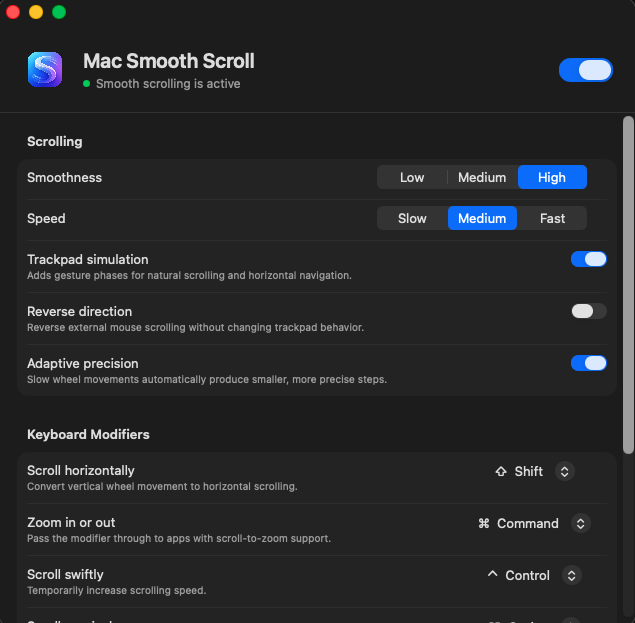
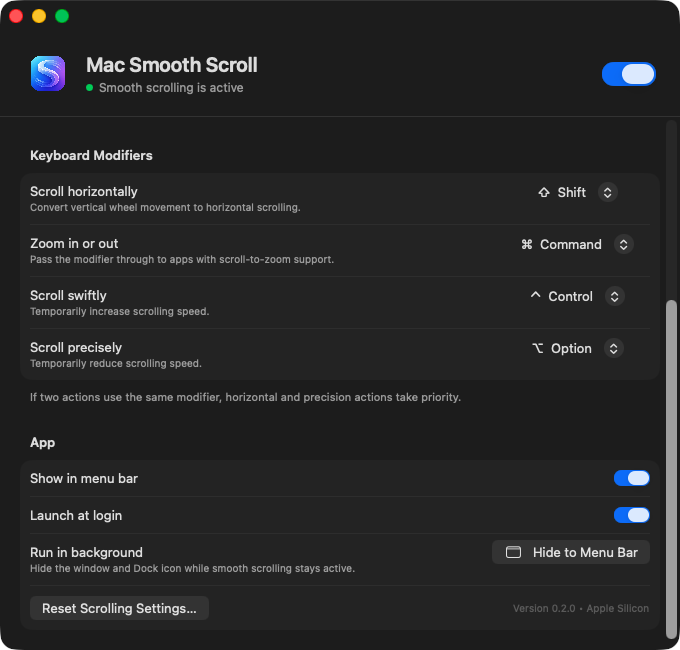
Add hide-to-menu-bar mode

diff --git a/Sources/MacSmoothScroll/MacSmoothScrollApp.swift b/Sources/MacSmoothScroll/MacSmoothScrollApp.swift
@@ -7,7 +7,7 @@ struct MacSmoothScrollApp: App {
     @NSApplicationDelegateAdaptor(AppDelegate.self) private var appDelegate
 
     var body: some Scene {
-        WindowGroup {
+        Window("Mac Smooth Scroll", id: "settings") {
             SettingsView()
                 .environmentObject(appDelegate.settings)
                 .frame(minWidth: 640, idealWidth: 680, minHeight: 600, idealHeight: 650)
@@ -21,29 +21,49 @@ struct MacSmoothScrollApp: App {
     }
 }
 
-final class AppDelegate: NSObject, NSApplicationDelegate {
+final class AppDelegate: NSObject, NSApplicationDelegate, NSWindowDelegate {
     let settings = ScrollSettings()
     private lazy var scrollEngine = SmoothScrollEngine(settings: settings)
     private var statusItem: NSStatusItem?
     private var permissionTimer: Timer?
+    private var isHiddenToMenuBar = false
+    private var isTerminating = false
+    private let launchedInBackground = ProcessInfo.processInfo.arguments.contains("--background")
+
+    func applicationWillFinishLaunching(_ notification: Notification) {
+        NSApp.setActivationPolicy(launchedInBackground ? .accessory : .regular)
+    }
 
     func applicationDidFinishLaunching(_ notification: Notification) {
-        NSApp.setActivationPolicy(.regular)
         settings.onChange = { [weak self] in
             self?.settingsDidChange()
         }
-        settings.onOpenSettings = {
-            AppDelegate.showSettingsWindow()
+        settings.onOpenSettings = { [weak self] in
+            self?.showSettings()
+        }
+        settings.onHideApp = { [weak self] in
+            self?.hideToMenuBar()
         }
 
         configureStatusItem()
         updateRuntimeState()
         scrollEngine.refresh()
+        settings.migrateLaunchAtLoginRegistration()
 
         permissionTimer = Timer.scheduledTimer(withTimeInterval: 1.5, repeats: true) { [weak self] _ in
             self?.updateRuntimeState()
         }
         RunLoop.main.add(permissionTimer!, forMode: .common)
+
+        DispatchQueue.main.async { [weak self] in
+            guard let self else { return }
+            self.attachWindowDelegates()
+            if self.launchedInBackground {
+                self.hideToMenuBar()
+            } else {
+                self.showSettings()
+            }
+        }
     }
 
     func applicationShouldTerminateAfterLastWindowClosed(_ sender: NSApplication) -> Bool {
@@ -51,8 +71,28 @@ final class AppDelegate: NSObject, NSApplicationDelegate {
     }
 
     func applicationWillTerminate(_ notification: Notification) {
+        isTerminating = true
         permissionTimer?.invalidate()
         scrollEngine.stop()
+    }
+
+    func applicationDidHide(_ notification: Notification) {
+        guard !isTerminating else { return }
+        hideToMenuBar()
+    }
+
+    func applicationShouldHandleReopen(
+        _ sender: NSApplication,
+        hasVisibleWindows flag: Bool
+    ) -> Bool {
+        showSettings()
+        return true
+    }
+
+    func windowShouldClose(_ sender: NSWindow) -> Bool {
+        guard !isTerminating else { return true }
+        hideToMenuBar()
+        return false
     }
 
     private func settingsDidChange() {
@@ -121,16 +161,45 @@ final class AppDelegate: NSObject, NSApplicationDelegate {
     }
 
     @objc private func openSettings() {
-        Self.showSettingsWindow()
+        showSettings()
     }
 
     @objc private func quitApp() {
         NSApp.terminate(nil)
     }
 
-    static func showSettingsWindow() {
+    private func attachWindowDelegates() {
+        for window in NSApp.windows where window.canBecomeKey {
+            window.delegate = self
+        }
+    }
+
+    private func hideToMenuBar() {
+        guard !isTerminating else { return }
+
+        if !settings.showInMenuBar {
+            settings.showInMenuBar = true
+        } else {
+            configureStatusItem()
+        }
+
+        guard !isHiddenToMenuBar else { return }
+        isHiddenToMenuBar = true
+        for window in NSApp.windows where window.canBecomeKey {
+            window.orderOut(nil)
+        }
+        NSApp.setActivationPolicy(.accessory)
+    }
+
+    private func showSettings() {
+        isHiddenToMenuBar = false
+        NSApp.setActivationPolicy(.regular)
+        NSApp.unhide(nil)
         NSApp.activate(ignoringOtherApps: true)
+
+        attachWindowDelegates()
         if let window = NSApp.windows.first(where: { $0.canBecomeKey }) {
+            window.delegate = self
             window.makeKeyAndOrderFront(nil)
         }
     }

diff --git a/Sources/MacSmoothScroll/ScrollSettings.swift b/Sources/MacSmoothScroll/ScrollSettings.swift
@@ -82,6 +82,8 @@ enum ModifierKey: String, CaseIterable, Identifiable {
 }
 
 final class ScrollSettings: ObservableObject {
+    static let launcherBundleIdentifier = "com.ronnel.mac-smooth-scroll.launcher"
+
     private enum Key {
         static let enabled = "scroll.enabled"
         static let smoothness = "scroll.smoothness"
@@ -100,6 +102,7 @@ final class ScrollSettings: ObservableObject {
     private let defaults = UserDefaults.standard
     var onChange: (() -> Void)?
     var onOpenSettings: (() -> Void)?
+    var onHideApp: (() -> Void)?
 
     @Published var isEnabled: Bool {
         didSet { persist(Key.enabled, isEnabled) }
@@ -171,6 +174,22 @@ final class ScrollSettings: ObservableObject {
         NSWorkspace.shared.open(url)
     }
 
+    func openLoginItemsSettings() {
+        SMAppService.openSystemSettingsLoginItems()
+    }
+
+    func hideToMenuBar() {
+        onHideApp?()
+    }
+
+    func migrateLaunchAtLoginRegistration() {
+        let legacyService = SMAppService.mainApp
+        if legacyService.status == .enabled || legacyService.status == .requiresApproval {
+            try? legacyService.unregister()
+        }
+        updateLaunchAtLogin()
+    }
+
     func resetDefaults() {
         isEnabled = true
         smoothness = .high
@@ -191,13 +210,29 @@ final class ScrollSettings: ObservableObject {
 
     private func updateLaunchAtLogin() {
         guard #available(macOS 13.0, *) else { return }
+        let launcherService = SMAppService.loginItem(identifier: Self.launcherBundleIdentifier)
+        let legacyService = SMAppService.mainApp
+
         do {
             if launchAtLogin {
-                try SMAppService.mainApp.register()
+                if legacyService.status == .enabled || legacyService.status == .requiresApproval {
+                    try? legacyService.unregister()
+                }
+                if launcherService.status == .notRegistered || launcherService.status == .notFound {
+                    try launcherService.register()
+                }
+                launchAtLoginMessage = launcherService.status == .requiresApproval
+                    ? "Approve Mac Smooth Scroll under System Settings → General → Login Items."
+                    : nil
             } else {
-                try SMAppService.mainApp.unregister()
+                if launcherService.status == .enabled || launcherService.status == .requiresApproval {
+                    try? launcherService.unregister()
+                }
+                if legacyService.status == .enabled || legacyService.status == .requiresApproval {
+                    try? legacyService.unregister()
+                }
+                launchAtLoginMessage = nil
             }
-            launchAtLoginMessage = nil
         } catch {
             launchAtLoginMessage = "Launch at login could not be changed: \(error.localizedDescription)"
         }

diff --git a/Sources/MacSmoothScroll/SettingsView.swift b/Sources/MacSmoothScroll/SettingsView.swift
@@ -224,9 +224,30 @@ struct SettingsView: View {
             Toggle("Launch at login", isOn: $settings.launchAtLogin)
 
             if let message = settings.launchAtLoginMessage {
-                Text(message)
+                VStack(alignment: .leading, spacing: 6) {
+                    Text(message)
+                        .font(.caption)
+                        .foregroundStyle(.red)
+                    Button("Open Login Items Settings") {
+                        settings.openLoginItemsSettings()
+                    }
                     .font(.caption)
-                    .foregroundStyle(.red)
+                }
+            }
+
+            LabeledContent {
+                Button {
+                    settings.hideToMenuBar()
+                } label: {
+                    Label("Hide to Menu Bar", systemImage: "menubar.rectangle")
+                }
+            } label: {
+                VStack(alignment: .leading, spacing: 2) {
+                    Text("Run in background")
+                    Text("Hide the window and Dock icon while smooth scrolling stays active.")
+                        .font(.caption)
+                        .foregroundStyle(.secondary)
+                }
             }
 
             HStack {
@@ -234,7 +255,7 @@ struct SettingsView: View {
                     showingResetConfirmation = true
                 }
                 Spacer()
-                Text("Version 0.1.0 • Apple Silicon")
+                Text("Version 0.2.0 • Apple Silicon")
                     .font(.caption)
                     .foregroundStyle(.tertiary)
             }

diff --git a/Sources/MacSmoothScrollLauncher/main.swift b/Sources/MacSmoothScrollLauncher/main.swift
@@ -1,0 +1,27 @@
+import AppKit
+import Foundation
+
+@main
+struct MacSmoothScrollLauncher {
+    static func main() async {
+        let helperURL = Bundle.main.bundleURL
+        let mainAppURL = helperURL
+            .deletingLastPathComponent() // LoginItems
+            .deletingLastPathComponent() // Library
+            .deletingLastPathComponent() // Contents
+            .deletingLastPathComponent() // Mac Smooth Scroll.app
+
+        let configuration = NSWorkspace.OpenConfiguration()
+        configuration.activates = false
+        configuration.arguments = ["--background"]
+
+        do {
+            _ = try await NSWorkspace.shared.openApplication(
+                at: mainAppURL,
+                configuration: configuration
+            )
+        } catch {
+            fputs("Mac Smooth Scroll Launcher: \(error.localizedDescription)\n", stderr)
+        }
+    }
+}

diff --git a/Package.swift b/Package.swift
@@ -8,12 +8,17 @@ let package = Package(
         .macOS(.v13)
     ],
     products: [
-        .executable(name: "MacSmoothScroll", targets: ["MacSmoothScroll"])
+        .executable(name: "MacSmoothScroll", targets: ["MacSmoothScroll"]),
+        .executable(name: "MacSmoothScrollLauncher", targets: ["MacSmoothScrollLauncher"])
     ],
     targets: [
         .executableTarget(
             name: "MacSmoothScroll",
             path: "Sources/MacSmoothScroll"
+        ),
+        .executableTarget(
+            name: "MacSmoothScrollLauncher",
+            path: "Sources/MacSmoothScrollLauncher"
         )
     ]
 )

diff --git a/README.md b/README.md
@@ -19,7 +19,8 @@ trackpad and Magic Mouse events untouched.
 - Adaptive precision for slow wheel movement
 - Configurable horizontal, zoom, swift, and precision modifier keys
 - Menu-bar control
-- Launch at login
+- Hide-to-menu-bar mode that removes the settings window and Dock icon
+- Background-only launch at login with a dedicated helper
 - Native Accessibility permission onboarding
 - Automatic pause while Mac Mouse Fix is running to prevent conflicting input
 
@@ -41,6 +42,14 @@ The resulting application is written to:
 ```text
 dist/Mac Smooth Scroll.app
 ```
+
+## Menu-bar mode
+
+Choose **Hide to Menu Bar**, close the settings window, or press `⌘H` to keep
+smooth scrolling active without a Dock icon. Use **Open Mac Smooth Scroll…**
+from the menu-bar item—or open the app again—to restore Settings. When Launch
+at Login is enabled, the embedded launcher starts the app directly in this
+background mode.
 
 The build script uses the first available Apple Development signing identity so
 that macOS privacy permissions remain stable across local rebuilds. Set
